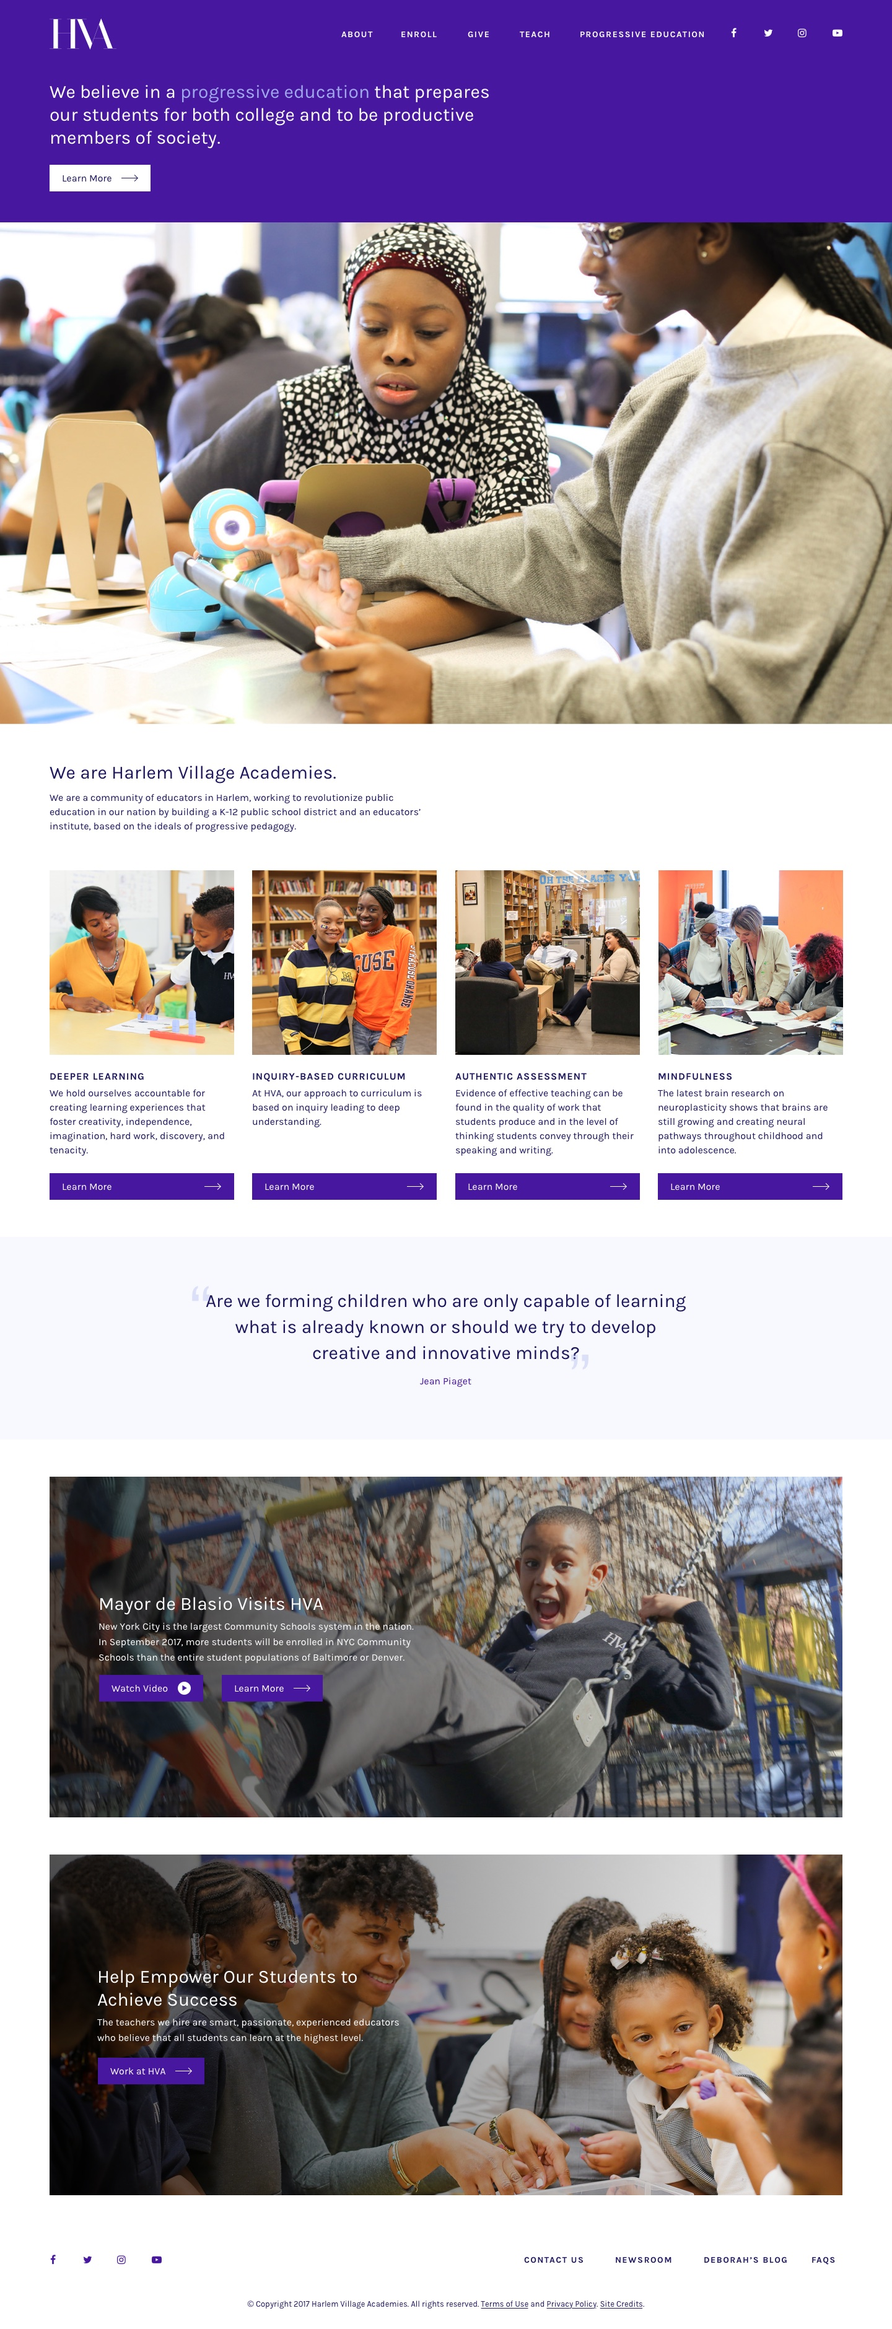
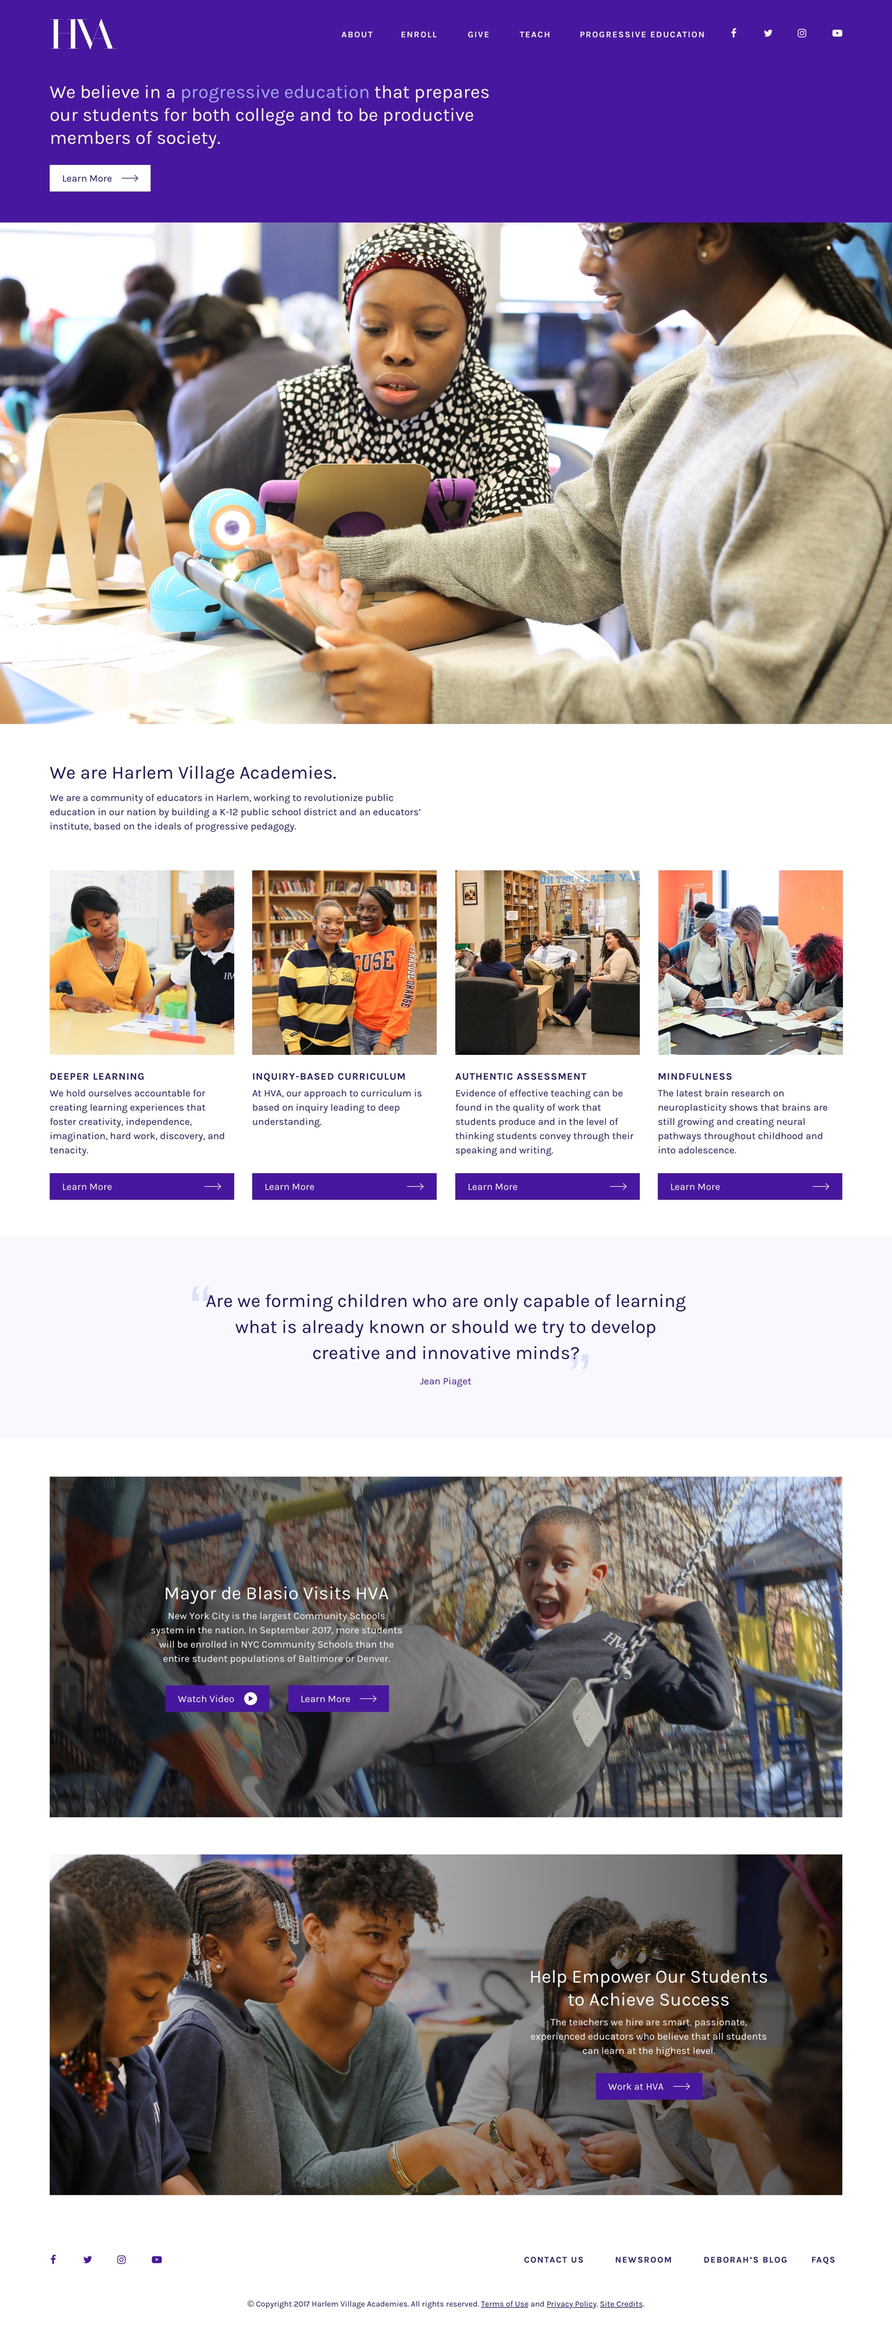
hva updates

diff --git a/hva/cc/index.hyperesources/index_hype_generated_script.js b/hva/cc/index.hyperesources/index_hype_generated_script.js
@@ -3,5 +3,5 @@
 (function(){(function k(){function l(a,b,d){var c=!1;null==window[a]&&(null==window[b]?(window[b]=[],window[b].push(k),a=document.getElementsByTagName("head")[0],b=document.createElement("script"),c=h,false==!0&&(c=""),b.type="text/javascript",b.src=c+"/"+d,a.appendChild(b)):window[b].push(k),c=!0);return c}var h="index.hyperesources",c="index",e="index_hype_container";if(false==!1)try{for(var f=document.getElementsByTagName("script"),
 a=0;a<f.length;a++){var b=f[a].src,d=null!=b?b.indexOf("/index_hype_generated_script.js"):-1;if(-1!=d){h=b.substr(0,d);break}}}catch(n){}if(false==!1&&(a=navigator.userAgent.match(/MSIE (\d+\.\d+)/),a=parseFloat(a&&a[1])||null,a=l("HYPE_584","HYPE_dtl_584",!0==(null!=a&&10>a||false==!0)?"HYPE-584.full.min.js":"HYPE-584.thin.min.js"),false==!0&&(a=a||l("HYPE_w_584","HYPE_wdtl_584","HYPE-584.waypoints.min.js")),a))return;f=window.HYPE.documents;
 if(null!=f[c]){b=1;a=c;do c=""+a+"-"+b++;while(null!=f[c]);d=document.getElementsByTagName("div");b=!1;for(a=0;a<d.length;a++)if(d[a].id==e&&null==d[a].getAttribute("HYP_dn")){var b=1,g=e;do e=""+g+"-"+b++;while(null!=document.getElementById(e));d[a].id=e;b=!0;break}if(!1==b)return}b=[];b=[{name:"untitledFunction",source:"function(hypeDocument, element, event) {\t\n\t\t\n\t\tmenu = hypeDocument.getElementById('menu');\n\tshipping = hypeDocument.getElementById('shipping');\n\n\twindow.onscroll = function(){\n\t\tvar scroll = window.pageYOffset || (document.body.scrollTop || document.documentElement.scrollTop);\n\t\t\n\t\tvar menuDelta = 250;\n\t\tvar shippingDelta = 400;\n\t\t\n\t\tvar shippingDeltaBottom = shippingDelta + 1000;\n\n\t\tif (scroll > menuDelta){\n\t\t\tmenu.classList.add('sticky')\n\t\t}\n\t\tif (scroll <= menuDelta){\n\t\t\tmenu.classList.remove('sticky')\n\t\t}\n\t\t\n\t\tif (scroll > shippingDelta){\n\t\t\tshipping.classList.add('sticky')\n\t\t}\n\t\tif (scroll <= shippingDelta || scroll > shippingDeltaBottom){\n\t\t\tshipping.classList.remove('sticky')\n\t\t}\n\t};\t\n\n\n}",identifier:"27"},{name:"untitledFunction2",source:"function(hypeDocument, element, event) {\t\t\n\t\tmenu = hypeDocument.getElementById('menutwo');\n\tshipping = hypeDocument.getElementById('shippingtwo');\n\n\twindow.onscroll = function(){\n\t\tvar scroll = window.pageYOffset || (document.body.scrollTop || document.documentElement.scrollTop);\n\t\t\n\t\tvar menutwoDelta = 250;\n\t\tvar shippingtwoDelta = 400;\n\t\t\n\t\tvar shippingtwoDeltaBottom = shippingtwoDelta + 1600;\n\n\t\tif (scroll > menutwoDelta){\n\t\t\tmenutwo.classList.add('sticky')\n\t\t}\n\t\tif (scroll <= menutwoDelta){\n\t\t\tmenutwo.classList.remove('sticky')\n\t\t}\n\t\t\n\t\tif (scroll > shippingtwoDelta){\n\t\t\tshippingtwo.classList.add('sticky')\n\t\t}\n\t\tif (scroll <= shippingtwoDelta || scroll > shippingtwoDeltaBottom){\n\t\t\tshippingtwo.classList.remove('sticky')\n\t\t}\n\t};\t\n\n\n\t\n}",identifier:"50"}];d={};g={};for(a=0;a<b.length;a++)try{g[b[a].identifier]=b[a].name,d[b[a].name]=eval("(function(){return "+b[a].source+"})();")}catch(m){window.console&&window.console.log(m),d[b[a].name]=
-function(){}}a=new HYPE_584(c,e,{"-2":{n:"blank.gif"},"18":{p:1,n:"Concept%202%20-%20Teach%20Dropdown_v1_2x.png",g:"45",o:true,t:"@2x"},"10":{p:1,n:"Desktop%20Creative%20Concept%201_v1_2x.jpg",g:"9",o:true,t:"@2x"},"19":{p:1,n:"Desktop%20Creative%20Concept%202_v1.jpg",g:"46",o:true,t:"@1x"},"11":{n:"HVA%20Homepage%20Video%201_1.mp4",g:"11",t:"video/mp4"},"0":{p:1,n:"Concept%201%20-%20NAV.png",g:"14",t:"@1x"},"12":{n:"HVA%20Homepage%20Video%202_1.mp4",g:"12",t:"video/mp4"},"1":{p:1,n:"Concept%201%20-%20About%20Dropdown_v1.png",g:"5",o:true,t:"@1x"},"2":{p:1,n:"Concept%201%20-%20About%20Dropdown_v1_2x.png",g:"5",o:true,t:"@2x"},"13":{p:1,n:"Concept%202%20-%20About%20Dropdown_v1.png",g:"43",o:true,t:"@1x"},"3":{p:1,n:"Concept%201%20-%20Teach%20Dropdown_v1.png",g:"8",o:true,t:"@1x"},"14":{p:1,n:"Concept%202%20-%20About%20Dropdown_v1_2x.png",g:"43",o:true,t:"@2x"},"4":{p:1,n:"Concept%201%20-%20Teach%20Dropdown_v1_2x.png",g:"8",o:true,t:"@2x"},"5":{p:1,n:"Concept%201%20-%20Deeper%20Learning.png",g:"6",o:true,t:"@1x"},"15":{p:1,n:"Concept%202%20-%20Sticky%20Nav_v1.jpg",g:"44",o:true,t:"@1x"},"6":{p:1,n:"Concept%201%20-%20Deeper%20Learning_2x.png",g:"6",o:true,t:"@2x"},"16":{p:1,n:"Concept%202%20-%20Sticky%20Nav_v1_2x.jpg",g:"44",o:true,t:"@2x"},"7":{p:1,n:"Concept%201%20-%20Hero%20Overlay.png",g:"7",o:true,t:"@1x"},"-1":{n:"PIE.htc"},"8":{p:1,n:"Concept%201%20-%20Hero%20Overlay_2x.png",g:"7",o:true,t:"@2x"},"17":{p:1,n:"Concept%202%20-%20Teach%20Dropdown_v1.png",g:"45",o:true,t:"@1x"},"9":{p:1,n:"Desktop%20Creative%20Concept%201_v1.jpg",g:"9",o:true,t:"@1x"}},h,[],d,[{n:"Concept 1",o:"1",X:[0]},{n:"Concept 2",o:"35",X:[1]}],[{A:{a:[{p:4,h:"27"}]},o:"3",p:"600px",cA:false,Y:1440,Z:3390,c:"#FFFFFF",L:[],bY:1,d:1440,U:{},T:{"34":{i:"34",n:"Teach HOVER",z:0.11,b:[],a:[{f:"c",y:0,z:0.11,i:"e",e:1,s:0,o:"72"},{y:0.11,i:"e",s:1,z:0,o:"72",f:"c"}],f:30},"33":{i:"33",n:"About HOVER",z:0.11,b:[],a:[{f:"c",y:0,z:0.11,i:"e",e:1,s:0,o:"73"},{y:0.11,i:"e",s:1,z:0,o:"73",f:"c"}],f:30},"28":{i:"28",n:"Deeper Learning HOVER",z:0.14,b:[],a:[{f:"c",y:0,z:0.14,i:"e",e:1,s:0,o:"64"},{y:0.14,i:"e",s:1,z:0,o:"64",f:"c"}],f:30},kTimelineDefaultIdentifier:{i:"kTimelineDefaultIdentifier",n:"Main Timeline",z:15,b:[],a:[{y:0,p:1,i:"Video Track",z:15,o:"59",f:"a"},{y:0,i:"e",s:0,z:0,o:"64",f:"c"}],f:30}},bZ:180,O:["71","67","66","68","69","70","60","62","59","63","58","75","74","73","72","61","64","65"],n:"Untitled Layout","_":0,v:{"63":{k:"div",x:"visible",c:1440,d:810,z:4,a:0,j:"absolute",b:40},"68":{G:"#CA3725",aU:8,aV:8,r:"inline",s:"Helvetica,Arial,Sans-Serif",t:12,Z:"break-word",v:"bold",w:"PROTOTYPE NAVIGATION<br>",bF:"66",A:"#CA3725",x:"visible",yy:"nowrap",B:"#CA3725",y:"preserve",j:"absolute",C:"#CA3725",z:5,k:"div",D:"#CA3725",aS:8,aT:8,a:34,b:5},"74":{c:108,d:65,I:"None",e:0,J:"None",K:"None",g:"#E8EBED",L:"None",M:0,N:0,A:"#D8DDE4",x:"visible",j:"absolute",k:"div",O:0,B:"#D8DDE4",C:"#D8DDE4",z:12,P:0,D:"#D8DDE4",aC:{a:[{b:"34",p:3,z:true,symbolOid:"2"}]},a:1041,aD:{a:[{b:"34",p:3,z:false,symbolOid:"2"}]},b:47},"58":{h:"9",p:"no-repeat",x:"visible",a:0,q:"100% 100%",b:40,j:"absolute",dB:"img",z:1,k:"div",c:1440,d:3354,r:"inline"},"64":{c:673,d:379,I:"None",r:"inline",e:0,J:"None",K:"None",g:"rgba(85, 83, 164, 0.635)",L:"None",M:0,N:0,A:"#D8DDE4",x:"visible",j:"absolute",k:"div",O:0,B:"#D8DDE4",C:"#D8DDE4",z:2,P:0,D:"#D8DDE4",aC:{a:[{b:"28",p:3,z:true,symbolOid:"2"}]},a:32,aD:{a:[{b:"28",p:3,z:false,symbolOid:"2"}]},b:1079},"69":{b:5,z:6,K:"Solid",c:90,L:"Solid",d:15,aS:6,M:1,e:0.40000000000000002,bD:"none",N:1,aT:6,dB:"button",O:1,g:"#F0F0F0",aU:6,P:1,bF:"66",aV:6,j:"absolute",aI:4,k:"div",aJ:4,aK:4,aL:4,A:"#A0A0A0",B:"#A0A0A0",Z:"break-word",r:"inline",C:"#A0A0A0",D:"#A0A0A0",t:13,F:"center",G:"#000000",aP:"pointer",w:"Concept 1<br><br>",x:"visible",I:"Solid",a:222,y:"preserve",J:"Solid"},"60":{h:"14",p:"no-repeat",x:"visible",a:0,q:"100% 100%",b:40,j:"absolute",dB:"img",z:8,k:"div",c:1440,d:74,r:"inline"},"70":{b:5,z:7,K:"Solid",c:90,L:"Solid",d:15,aS:6,M:1,e:1,bD:"none",N:1,aT:6,dB:"button",O:1,g:"#F0F0F0",aU:6,P:1,bF:"66",aV:6,j:"absolute",k:"div",aI:4,aJ:4,aK:4,aL:4,A:"#A0A0A0",B:"#A0A0A0",Z:"break-word",r:"inline",C:"#A0A0A0",D:"#A0A0A0",t:13,aA:{a:[{d:1.1000000000000001,p:1,g:1,e:"35"}]},F:"center",G:"#000000",aP:"pointer",w:"Concept 2<br><br>",x:"visible",I:"Solid",a:336,y:"preserve",J:"Solid"},"65":{h:"6",p:"no-repeat",x:"visible",a:154,q:"100% 100%",b:1184,j:"absolute",dB:"img",z:3,k:"div",c:430,d:170,r:"inline"},"59":{aR:true,x:"visible",bE:"11",a:0,b:0,j:"absolute",bF:"63",c:1440,k:"video",z:1,d:810,aO:false,aQ:true,aH:true},"71":{h:"14",p:"no-repeat",x:"visible",a:0,q:"100% 100%",b:-96,j:"absolute",i:"menu",z:9,k:"div",dB:"img",d:74,c:1440,r:"inline",e:1},"61":{h:"7",p:"no-repeat",x:"visible",a:301,q:"100% 100%",b:307,j:"absolute",bF:"63",z:3,k:"div",dB:"img",d:266,c:798,r:"inline"},"75":{c:86,d:65,I:"None",e:0,J:"None",K:"None",g:"#E8EBED",L:"None",M:0,N:0,A:"#D8DDE4",x:"visible",j:"absolute",k:"div",O:0,B:"#D8DDE4",C:"#D8DDE4",z:14,P:0,D:"#D8DDE4",aC:{a:[{b:"33",p:3,z:true,symbolOid:"2"}]},a:758,aD:{a:[{b:"33",p:3,z:false,symbolOid:"2"}]},b:47},"66":{x:"visible",k:"div",c:1440,d:40,z:10,e:1,a:0,j:"absolute",b:0},"72":{h:"8",p:"no-repeat",x:"visible",a:1040,q:"100% 100%",b:109,j:"absolute",dB:"img",z:11,k:"div",c:206,d:205,r:"inline",e:0},"62":{c:1440,d:810,I:"None",e:0.14532238924050633,J:"None",K:"None",g:"#000000",L:"None",M:0,N:0,bF:"63",A:"#D8DDE4",x:"visible",j:"absolute",B:"#D8DDE4",k:"div",O:0,C:"#D8DDE4",z:2,P:0,D:"#D8DDE4",a:0,b:0},"67":{c:1440,d:40,I:"None",J:"None",K:"None",g:"#D3D5D7",L:"None",M:0,N:0,bF:"66",A:"#D8DDE4",x:"visible",j:"absolute",B:"#D8DDE4",k:"div",O:0,C:"#D8DDE4",z:1,P:0,D:"#D8DDE4",a:0,b:0},"73":{h:"5",p:"no-repeat",x:"visible",a:747,q:"100% 100%",b:109,j:"absolute",dB:"img",z:13,k:"div",c:250,d:462,r:"inline",e:0}}},{A:{a:[{p:4,h:"50"}]},o:"37",p:"600px",cA:false,Y:1440,Z:3800,c:"#FFFFFF",L:[],bY:1,d:1440,U:{},T:{"56":{i:"56",n:"Teach HOVER",z:0.16,b:[],a:[{f:"c",y:0,z:0.16,i:"e",e:1,s:0,o:"83"},{y:0.16,i:"e",s:1,z:0,o:"83",f:"c"}],f:30},"55":{i:"55",n:"About HOVER",z:0.13,b:[],a:[{f:"c",y:0,z:0.13,i:"e",e:1,s:0,o:"84"},{y:0.13,i:"e",s:1,z:0,o:"84",f:"c"}],f:30},kTimelineDefaultIdentifier:{i:"kTimelineDefaultIdentifier",n:"Main Timeline",z:15,b:[],a:[{y:0,p:1,i:"Video Track",z:15,o:"81",f:"a"}],f:30}},bZ:180,O:["82","77","76","78","79","80","87","85","86","84","83","81"],n:"Untitled Layout","_":1,v:{"84":{h:"43",p:"no-repeat",x:"visible",a:520,q:"100% 100%",b:116,j:"absolute",dB:"img",z:13,k:"div",c:264,d:458,r:"inline",e:0},"80":{b:5,z:7,K:"Solid",c:90,L:"Solid",d:15,aS:6,M:1,e:0.40000000000000002,bD:"none",N:1,aT:6,dB:"button",O:1,g:"#F0F0F0",aU:6,P:1,bF:"76",aV:6,j:"absolute",aI:4,k:"div",aJ:4,aK:4,aL:4,A:"#A0A0A0",B:"#A0A0A0",Z:"break-word",r:"inline",C:"#A0A0A0",D:"#A0A0A0",t:13,F:"center",G:"#000000",aP:"pointer",w:"Concept 2<br><br>",x:"visible",I:"Solid",a:336,y:"preserve",J:"Solid"},"79":{b:5,z:6,K:"Solid",c:90,L:"Solid",d:15,aS:6,M:1,e:1,bD:"none",N:1,aT:6,dB:"button",O:1,g:"#F0F0F0",aU:6,P:1,bF:"76",aV:6,j:"absolute",k:"div",aI:4,aJ:4,aK:4,aL:4,A:"#A0A0A0",B:"#A0A0A0",Z:"break-word",r:"inline",C:"#A0A0A0",D:"#A0A0A0",t:13,aA:{a:[{d:1.1000000000000001,p:1,g:1,e:"1"}]},F:"center",G:"#000000",aP:"pointer",w:"Concept 1<br><br>",x:"visible",I:"Solid",a:222,y:"preserve",J:"Solid"},"85":{c:100,d:38,I:"None",e:0,J:"None",K:"None",g:"#E8EBED",L:"None",M:0,N:0,A:"#D8DDE4",x:"visible",j:"absolute",k:"div",O:0,B:"#D8DDE4",C:"#D8DDE4",z:14,P:0,D:"#D8DDE4",aC:{a:[{b:"55",p:3,z:true,symbolOid:"36"}]},a:521,aD:{a:[{b:"55",p:3,z:false,symbolOid:"36"}]},b:70},"81":{aR:false,x:"visible",bE:"12",a:0,b:399,j:"absolute",c:1440,k:"video",z:9,d:810,aO:false,aQ:true,aH:true},"86":{c:100,d:38,I:"None",e:0,J:"None",K:"None",g:"#E8EBED",L:"None",M:0,N:0,A:"#D8DDE4",x:"visible",j:"absolute",k:"div",O:0,B:"#D8DDE4",C:"#D8DDE4",z:12,P:0,D:"#D8DDE4",aC:{a:[{b:"56",p:3,z:true,symbolOid:"36"}]},a:816,aD:{a:[{b:"56",p:3,z:false,symbolOid:"36"}]},b:70},"76":{x:"visible",k:"div",c:1440,d:40,z:15,e:1,a:0,j:"absolute",b:0},"82":{h:"44",p:"no-repeat",x:"visible",i:"menutwo",q:"100% 100%",b:-112,a:0,j:"absolute",z:10,k:"div",dB:"img",d:74,c:1440,r:"inline"},"87":{h:"46",p:"no-repeat",x:"visible",a:0,q:"100% 100%",b:40,j:"absolute",dB:"img",z:1,k:"div",c:1440,d:3760,r:"inline"},"77":{c:1440,d:40,I:"None",J:"None",K:"None",g:"#D3D5D7",L:"None",M:0,N:0,bF:"76",A:"#D8DDE4",x:"visible",j:"absolute",B:"#D8DDE4",k:"div",O:0,C:"#D8DDE4",z:1,P:0,D:"#D8DDE4",a:0,b:0},"83":{h:"45",p:"no-repeat",x:"visible",a:806,q:"100% 100%",b:116,j:"absolute",dB:"img",z:11,k:"div",c:219,d:205,r:"inline",e:0},"78":{G:"#CA3725",aU:8,aV:8,r:"inline",s:"Helvetica,Arial,Sans-Serif",t:12,Z:"break-word",v:"bold",w:"PROTOTYPE NAVIGATION<br>",bF:"76",A:"#CA3725",x:"visible",yy:"nowrap",B:"#CA3725",y:"preserve",j:"absolute",C:"#CA3725",z:5,k:"div",D:"#CA3725",aS:8,aT:8,a:34,b:5}}}],{},g,{},null,false,true,-1,true,true,false,true);f[c]=a.API;document.getElementById(e).setAttribute("HYP_dn",
+function(){}}a=new HYPE_584(c,e,{"-2":{n:"blank.gif"},"18":{p:1,n:"Concept%202%20-%20Teach%20Dropdown_v1_2x.png",g:"45",o:true,t:"@2x"},"10":{p:1,n:"Desktop%20Creative%20Concept%201_v1_2x.jpg",g:"9",o:true,t:"@2x"},"19":{p:1,n:"Desktop%20Creative%20Concept%202_v1.jpg",g:"46",o:true,t:"@1x"},"11":{n:"HVA%20Homepage%20Video%201_1.mp4",g:"11",t:"video/mp4"},"0":{p:1,n:"Concept%201%20-%20NAV.png",g:"14",t:"@1x"},"12":{n:"HVA%20Homepage%20Video%202_1.mp4",g:"12",t:"video/mp4"},"1":{p:1,n:"Concept%201%20-%20About%20Dropdown_v1.png",g:"5",o:true,t:"@1x"},"20":{p:1,n:"Desktop%20Creative%20Concept%202_v1_2x.jpg",g:"46",o:true,t:"@2x"},"2":{p:1,n:"Concept%201%20-%20About%20Dropdown_v1_2x.png",g:"5",o:true,t:"@2x"},"13":{p:1,n:"Concept%202%20-%20About%20Dropdown_v1.png",g:"43",o:true,t:"@1x"},"3":{p:1,n:"Concept%201%20-%20Teach%20Dropdown_v1.png",g:"8",o:true,t:"@1x"},"14":{p:1,n:"Concept%202%20-%20About%20Dropdown_v1_2x.png",g:"43",o:true,t:"@2x"},"4":{p:1,n:"Concept%201%20-%20Teach%20Dropdown_v1_2x.png",g:"8",o:true,t:"@2x"},"5":{p:1,n:"Concept%201%20-%20Deeper%20Learning.png",g:"6",o:true,t:"@1x"},"15":{p:1,n:"Concept%202%20-%20Sticky%20Nav_v1.jpg",g:"44",o:true,t:"@1x"},"6":{p:1,n:"Concept%201%20-%20Deeper%20Learning_2x.png",g:"6",o:true,t:"@2x"},"16":{p:1,n:"Concept%202%20-%20Sticky%20Nav_v1_2x.jpg",g:"44",o:true,t:"@2x"},"7":{p:1,n:"Concept%201%20-%20Hero%20Overlay.png",g:"7",o:true,t:"@1x"},"-1":{n:"PIE.htc"},"8":{p:1,n:"Concept%201%20-%20Hero%20Overlay_2x.png",g:"7",o:true,t:"@2x"},"17":{p:1,n:"Concept%202%20-%20Teach%20Dropdown_v1.png",g:"45",o:true,t:"@1x"},"9":{p:1,n:"Desktop%20Creative%20Concept%201_v1.jpg",g:"9",o:true,t:"@1x"}},h,[],d,[{n:"Concept 1",o:"1",X:[0]},{n:"Concept 2",o:"35",X:[1]}],[{A:{a:[{p:4,h:"27"}]},o:"3",p:"600px",cA:false,Y:1440,Z:3390,c:"#FFFFFF",L:[],bY:1,d:1440,U:{},T:{"34":{i:"34",n:"Teach HOVER",z:0.11,b:[],a:[{f:"c",y:0,z:0.11,i:"e",e:1,s:0,o:"72"},{y:0.11,i:"e",s:1,z:0,o:"72",f:"c"}],f:30},"33":{i:"33",n:"About HOVER",z:0.11,b:[],a:[{f:"c",y:0,z:0.11,i:"e",e:1,s:0,o:"73"},{y:0.11,i:"e",s:1,z:0,o:"73",f:"c"}],f:30},"28":{i:"28",n:"Deeper Learning HOVER",z:0.14,b:[],a:[{f:"c",y:0,z:0.14,i:"e",e:1,s:0,o:"64"},{y:0.14,i:"e",s:1,z:0,o:"64",f:"c"}],f:30},kTimelineDefaultIdentifier:{i:"kTimelineDefaultIdentifier",n:"Main Timeline",z:15,b:[],a:[{y:0,p:1,i:"Video Track",z:15,o:"59",f:"a"},{y:0,i:"e",s:0,z:0,o:"64",f:"c"}],f:30}},bZ:180,O:["71","67","66","68","69","70","60","62","59","63","58","75","74","73","72","61","64","65"],n:"Untitled Layout","_":0,v:{"63":{k:"div",x:"visible",c:1440,d:810,z:4,a:0,j:"absolute",b:42},"68":{G:"#CA3725",aU:8,aV:8,r:"inline",s:"Helvetica,Arial,Sans-Serif",t:12,Z:"break-word",v:"bold",w:"PROTOTYPE NAVIGATION<br>",bF:"66",A:"#CA3725",x:"visible",yy:"nowrap",B:"#CA3725",y:"preserve",j:"absolute",C:"#CA3725",z:5,k:"div",D:"#CA3725",aS:8,aT:8,a:34,b:5},"74":{c:108,d:65,I:"None",e:0,J:"None",K:"None",g:"#E8EBED",L:"None",M:0,N:0,A:"#D8DDE4",x:"visible",j:"absolute",k:"div",O:0,B:"#D8DDE4",C:"#D8DDE4",z:12,P:0,D:"#D8DDE4",aC:{a:[{b:"34",p:3,z:true,symbolOid:"2"}]},a:1041,aD:{a:[{b:"34",p:3,z:false,symbolOid:"2"}]},b:47},"58":{h:"9",p:"no-repeat",x:"visible",a:0,q:"100% 100%",b:40,j:"absolute",dB:"img",z:1,k:"div",c:1440,d:3354,r:"inline"},"64":{c:673,d:379,I:"None",r:"inline",e:0,J:"None",K:"None",g:"rgba(85, 83, 164, 0.635)",L:"None",M:0,N:0,A:"#D8DDE4",x:"visible",j:"absolute",k:"div",O:0,B:"#D8DDE4",C:"#D8DDE4",z:2,P:0,D:"#D8DDE4",aC:{a:[{b:"28",p:3,z:true,symbolOid:"2"}]},a:32,aD:{a:[{b:"28",p:3,z:false,symbolOid:"2"}]},b:1079},"69":{b:5,z:6,K:"Solid",c:90,L:"Solid",d:15,aS:6,M:1,e:0.40000000000000002,bD:"none",N:1,aT:6,dB:"button",O:1,g:"#F0F0F0",aU:6,P:1,bF:"66",aV:6,j:"absolute",aI:4,k:"div",aJ:4,aK:4,aL:4,A:"#A0A0A0",B:"#A0A0A0",Z:"break-word",r:"inline",C:"#A0A0A0",D:"#A0A0A0",t:13,F:"center",G:"#000000",aP:"pointer",w:"Concept 1<br><br>",x:"visible",I:"Solid",a:222,y:"preserve",J:"Solid"},"60":{h:"14",p:"no-repeat",x:"visible",a:0,q:"100% 100%",b:40,j:"absolute",dB:"img",z:8,k:"div",c:1440,d:74,r:"inline"},"70":{b:5,z:7,K:"Solid",c:90,L:"Solid",d:15,aS:6,M:1,e:1,bD:"none",N:1,aT:6,dB:"button",O:1,g:"#F0F0F0",aU:6,P:1,bF:"66",aV:6,j:"absolute",k:"div",aI:4,aJ:4,aK:4,aL:4,A:"#A0A0A0",B:"#A0A0A0",Z:"break-word",r:"inline",C:"#A0A0A0",D:"#A0A0A0",t:13,aA:{a:[{d:1.1000000000000001,p:1,g:1,e:"35"}]},F:"center",G:"#000000",aP:"pointer",w:"Concept 2<br><br>",x:"visible",I:"Solid",a:336,y:"preserve",J:"Solid"},"65":{h:"6",p:"no-repeat",x:"visible",a:154,q:"100% 100%",b:1184,j:"absolute",dB:"img",z:3,k:"div",c:430,d:170,r:"inline"},"59":{aR:true,x:"visible",bE:"11",a:0,b:0,j:"absolute",bF:"63",c:1440,k:"video",z:1,d:810,aO:false,aQ:true,aH:true},"71":{h:"14",p:"no-repeat",x:"visible",a:0,q:"100% 100%",b:-96,j:"absolute",i:"menu",z:9,k:"div",dB:"img",d:74,c:1440,r:"inline",e:1},"61":{h:"7",p:"no-repeat",x:"visible",a:301,q:"100% 100%",b:307,j:"absolute",bF:"63",z:3,k:"div",dB:"img",d:266,c:798,r:"inline"},"75":{c:86,d:65,I:"None",e:0,J:"None",K:"None",g:"#E8EBED",L:"None",M:0,N:0,A:"#D8DDE4",x:"visible",j:"absolute",k:"div",O:0,B:"#D8DDE4",C:"#D8DDE4",z:14,P:0,D:"#D8DDE4",aC:{a:[{b:"33",p:3,z:true,symbolOid:"2"}]},a:758,aD:{a:[{b:"33",p:3,z:false,symbolOid:"2"}]},b:47},"66":{x:"visible",k:"div",c:1440,d:40,z:10,e:1,a:0,j:"absolute",b:0},"72":{h:"8",p:"no-repeat",x:"visible",a:1040,q:"100% 100%",b:109,j:"absolute",dB:"img",z:11,k:"div",c:206,d:205,r:"inline",e:0},"62":{c:1440,d:810,I:"None",e:0.14532238924050633,J:"None",K:"None",g:"#000000",L:"None",M:0,N:0,bF:"63",A:"#D8DDE4",x:"visible",j:"absolute",B:"#D8DDE4",k:"div",O:0,C:"#D8DDE4",z:2,P:0,D:"#D8DDE4",a:0,b:0},"67":{c:1440,d:40,I:"None",J:"None",K:"None",g:"#D3D5D7",L:"None",M:0,N:0,bF:"66",A:"#D8DDE4",x:"visible",j:"absolute",B:"#D8DDE4",k:"div",O:0,C:"#D8DDE4",z:1,P:0,D:"#D8DDE4",a:0,b:0},"73":{h:"5",p:"no-repeat",x:"visible",a:747,q:"100% 100%",b:109,j:"absolute",dB:"img",z:13,k:"div",c:250,d:462,r:"inline",e:0}}},{A:{a:[{p:4,h:"50"}]},o:"37",p:"600px",cA:false,Y:1440,Z:3800,c:"#FFFFFF",L:[],bY:1,d:1440,U:{},T:{"56":{i:"56",n:"Teach HOVER",z:0.16,b:[],a:[{f:"c",y:0,z:0.16,i:"e",e:1,s:0,o:"83"},{y:0.16,i:"e",s:1,z:0,o:"83",f:"c"}],f:30},"55":{i:"55",n:"About HOVER",z:0.13,b:[],a:[{f:"c",y:0,z:0.13,i:"e",e:1,s:0,o:"84"},{y:0.13,i:"e",s:1,z:0,o:"84",f:"c"}],f:30},kTimelineDefaultIdentifier:{i:"kTimelineDefaultIdentifier",n:"Main Timeline",z:15,b:[],a:[{y:0,p:1,i:"Video Track",z:15,o:"81",f:"a"}],f:30}},bZ:180,O:["82","77","76","78","79","80","87","85","86","84","83","81"],n:"Untitled Layout","_":1,v:{"84":{h:"43",p:"no-repeat",x:"visible",a:520,q:"100% 100%",b:116,j:"absolute",dB:"img",z:13,k:"div",c:264,d:458,r:"inline",e:0},"80":{b:5,z:7,K:"Solid",c:90,L:"Solid",d:15,aS:6,M:1,e:0.40000000000000002,bD:"none",N:1,aT:6,dB:"button",O:1,g:"#F0F0F0",aU:6,P:1,bF:"76",aV:6,j:"absolute",aI:4,k:"div",aJ:4,aK:4,aL:4,A:"#A0A0A0",B:"#A0A0A0",Z:"break-word",r:"inline",C:"#A0A0A0",D:"#A0A0A0",t:13,F:"center",G:"#000000",aP:"pointer",w:"Concept 2<br><br>",x:"visible",I:"Solid",a:336,y:"preserve",J:"Solid"},"79":{b:5,z:6,K:"Solid",c:90,L:"Solid",d:15,aS:6,M:1,e:1,bD:"none",N:1,aT:6,dB:"button",O:1,g:"#F0F0F0",aU:6,P:1,bF:"76",aV:6,j:"absolute",k:"div",aI:4,aJ:4,aK:4,aL:4,A:"#A0A0A0",B:"#A0A0A0",Z:"break-word",r:"inline",C:"#A0A0A0",D:"#A0A0A0",t:13,aA:{a:[{d:1.1000000000000001,p:1,g:1,e:"1"}]},F:"center",G:"#000000",aP:"pointer",w:"Concept 1<br><br>",x:"visible",I:"Solid",a:222,y:"preserve",J:"Solid"},"85":{c:100,d:38,I:"None",e:0,J:"None",K:"None",g:"#E8EBED",L:"None",M:0,N:0,A:"#D8DDE4",x:"visible",j:"absolute",k:"div",O:0,B:"#D8DDE4",C:"#D8DDE4",z:14,P:0,D:"#D8DDE4",aC:{a:[{b:"55",p:3,z:true,symbolOid:"36"}]},a:521,aD:{a:[{b:"55",p:3,z:false,symbolOid:"36"}]},b:70},"81":{aR:false,x:"visible",bE:"12",a:0,b:399,j:"absolute",c:1440,k:"video",z:9,d:810,aO:false,aQ:true,aH:true},"86":{c:100,d:38,I:"None",e:0,J:"None",K:"None",g:"#E8EBED",L:"None",M:0,N:0,A:"#D8DDE4",x:"visible",j:"absolute",k:"div",O:0,B:"#D8DDE4",C:"#D8DDE4",z:12,P:0,D:"#D8DDE4",aC:{a:[{b:"56",p:3,z:true,symbolOid:"36"}]},a:816,aD:{a:[{b:"56",p:3,z:false,symbolOid:"36"}]},b:70},"76":{x:"visible",k:"div",c:1440,d:40,z:15,e:1,a:0,j:"absolute",b:0},"82":{h:"44",p:"no-repeat",x:"visible",i:"menutwo",q:"100% 100%",b:-112,a:0,j:"absolute",z:10,k:"div",dB:"img",d:74,c:1440,r:"inline"},"87":{h:"46",p:"no-repeat",x:"visible",a:0,q:"100% 100%",b:40,j:"absolute",dB:"img",z:1,k:"div",c:1440,d:3760,r:"inline"},"77":{c:1440,d:40,I:"None",J:"None",K:"None",g:"#D3D5D7",L:"None",M:0,N:0,bF:"76",A:"#D8DDE4",x:"visible",j:"absolute",B:"#D8DDE4",k:"div",O:0,C:"#D8DDE4",z:1,P:0,D:"#D8DDE4",a:0,b:0},"83":{h:"45",p:"no-repeat",x:"visible",a:806,q:"100% 100%",b:116,j:"absolute",dB:"img",z:11,k:"div",c:219,d:205,r:"inline",e:0},"78":{G:"#CA3725",aU:8,aV:8,r:"inline",s:"Helvetica,Arial,Sans-Serif",t:12,Z:"break-word",v:"bold",w:"PROTOTYPE NAVIGATION<br>",bF:"76",A:"#CA3725",x:"visible",yy:"nowrap",B:"#CA3725",y:"preserve",j:"absolute",C:"#CA3725",z:5,k:"div",D:"#CA3725",aS:8,aT:8,a:34,b:5}}}],{},g,{},null,false,true,-1,true,true,false,true);f[c]=a.API;document.getElementById(e).setAttribute("HYP_dn",
 c);a.z_o(this.body)})();})();

diff --git a/hva/cc/index.html b/hva/cc/index.html
@@ -73,7 +73,7 @@
 	<!-- copy these lines to your document: -->
 
 	<div id="index_hype_container" style="margin:auto;position:relative;width:1440px;height:3390px;overflow:hidden;">
-		<script type="text/javascript" charset="utf-8" src="index.hyperesources/index_hype_generated_script.js?41907"></script>
+		<script type="text/javascript" charset="utf-8" src="index.hyperesources/index_hype_generated_script.js?79655"></script>
 	</div>
 
 	<!-- end copy -->
